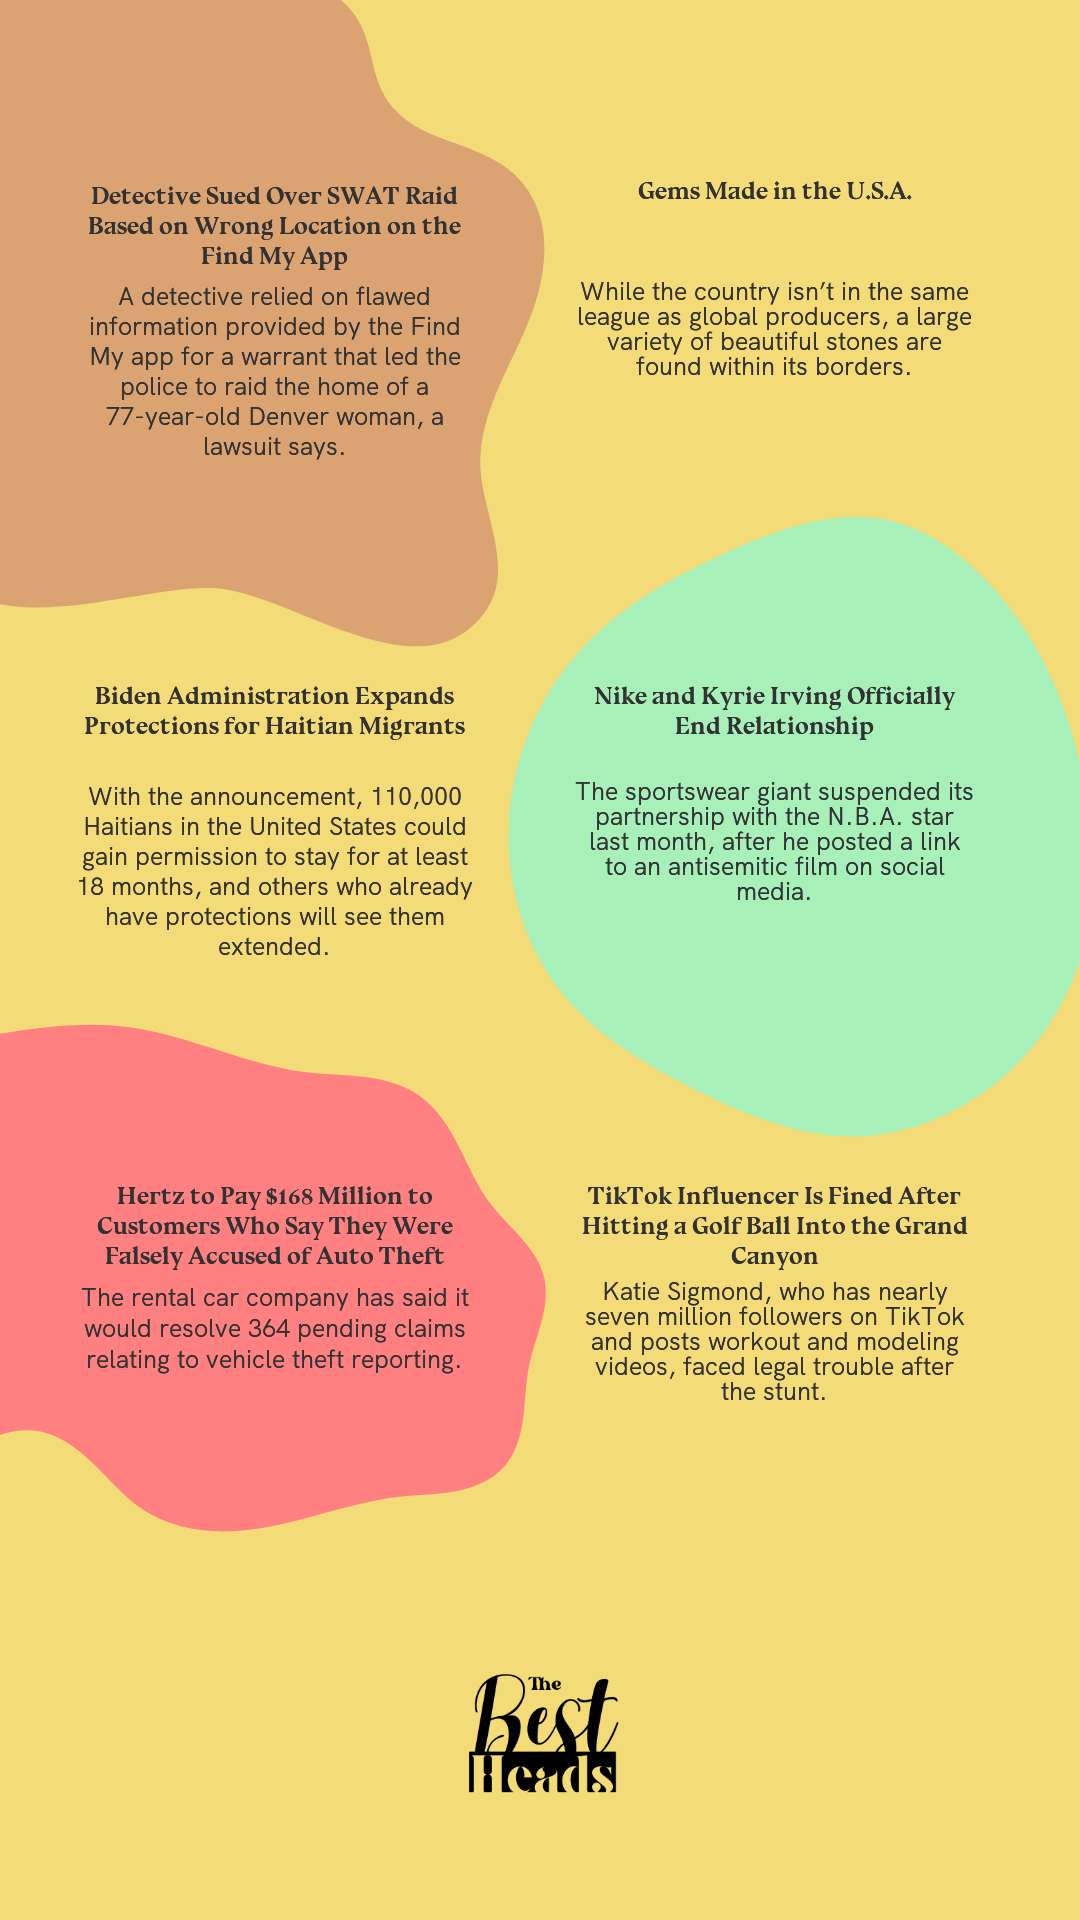
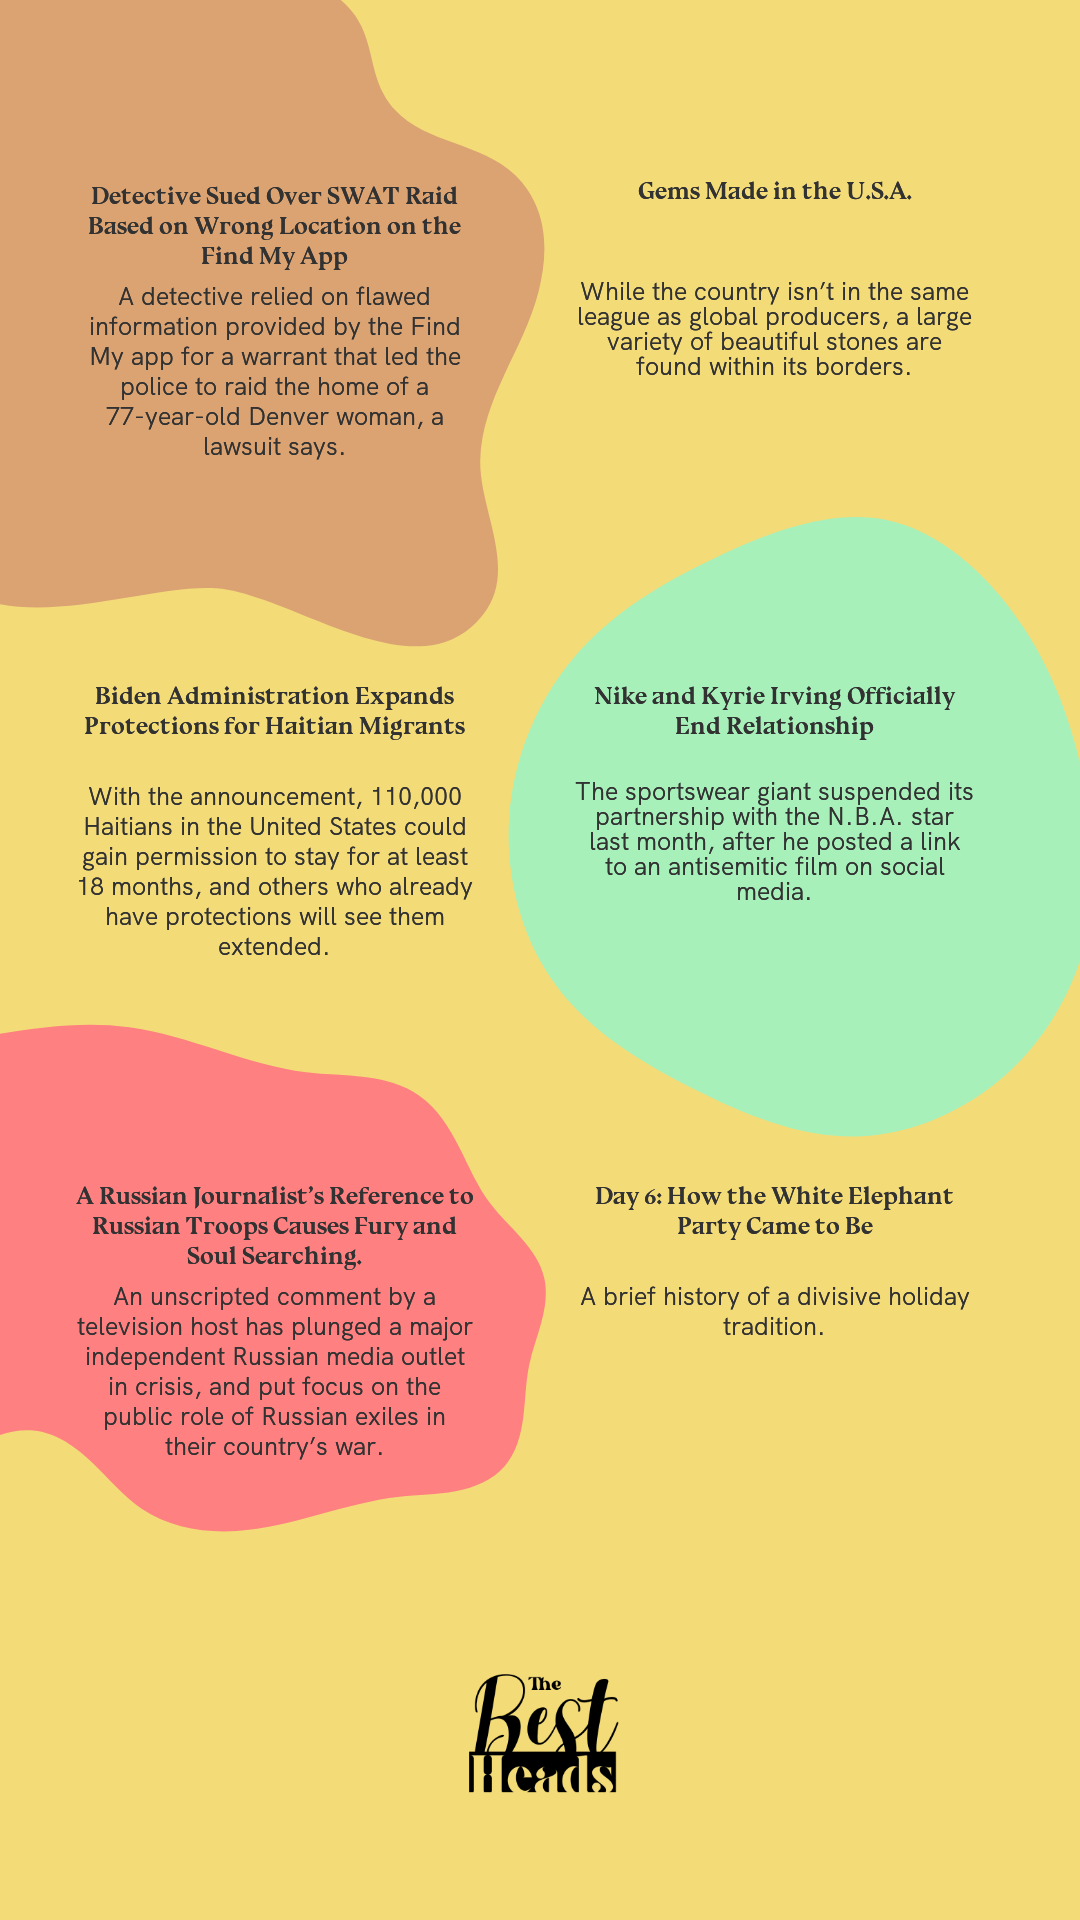
ok

Changed region(s): [[0.0611, 0.5938, 0.4278, 0.7812], [0.55, 0.5938, 0.8861, 0.7188]]

diff --git a/main.py b/main.py
@@ -2,14 +2,22 @@ from bs4 import BeautifulSoup
 import requests
 import time
 import tweepy
-import keys
 from PIL import Image, ImageDraw, ImageFont
 from image_utils import ImageText
-import urllib.request
+from dotenv import load_dotenv
+import os
+
+load_dotenv()
+
+API_KEY = os.getenv('API_KEY')
+API_SECRET = os.getenv('API_SECRET')
+BEARER_TOKEN = os.getenv('BEARER_TOKEN')
+ACCESS_TOKEN = os.getenv('ACCESS_TOKEN')
+ACCESS_TOKEN_SECRET = os.getenv('ACCESS_TOKEN_SECRET')
 
 def api():
-    auth = tweepy.OAuthHandler(keys.api_key, keys.api_secret)
-    auth.set_access_token(keys.access_token, keys.access_token_secret)
+    auth = tweepy.OAuthHandler(API_KEY, API_SECRET)
+    auth.set_access_token(ACCESS_TOKEN, ACCESS_TOKEN_SECRET)
 
     return tweepy.API(auth)
 
@@ -21,7 +29,7 @@ def tweet(api: tweepy.API, message: str, image_path=None):
 
     print('Tweeted successfully!')
 
-img = ImageText('img/yellow.png')
+img = ImageText('img/blob.png')
 
 def adding_text(img, text, position, size, colour):
     font = ImageFont.truetype("fonts/hkgrotesk.ttf", size, encoding="unic")
@@ -43,13 +51,8 @@ def scrape_news():
     soup_0 = BeautifulSoup(html_text_0, 'lxml')
     news_t_0 = soup_0.find('h2', class_='css-1kv6qi e15t083i0').text
     news_b_0 = soup_0.find('p', class_='css-1pga48a e15t083i1').text
-    news_i_0 = soup_0.find('img', class_='css-rq4mmj')
     news_post_0 = f'Booook NEWS: {news_t_0}\n{news_b_0}\n'
     print(news_post_0)
-    print(news_i_0['src'])
-    urllib.request.urlretrieve(news_i_0['src'], "img/0.png")
-    im0 = Image.open('img/0.png')
-    im0.thumbnail((200, 200))
     
     html_text_1 = requests.get(f'{url}{topic[1]}').text
     soup_1 = BeautifulSoup(html_text_1, 'lxml')
@@ -90,7 +93,6 @@ def scrape_news():
     #         img = adding_text(img, news_t, (10, 50), 50, (0, 0, 0,200))
     #         img = adding_text(img, news_b, (10, 150), 50, (0, 0, 0,200))
     #         img.save('img/whitetext.png')
-    img.write_text_box((350, 50), 'THE BEST HEADS', box_width=400, font_filename=cooperhewitt, font_size=35, color=color, place='center')
     img.write_text_box((75, 150), news_t_0, box_width=400, font_filename=bluunext, font_size=25, color=color, place='center')
     img.write_text_box((75, 250), news_b_0, box_width=400, font_filename=hkgrotesk, font_size=25, color=color, place='center')
     img.write_text_box((575, 150), news_t_1, box_width=400, font_filename=bluunext, font_size=25, color=color, place='center')
@@ -104,10 +106,6 @@ def scrape_news():
     img.write_text_box((575, 1150), news_t_5, box_width=400, font_filename=bluunext, font_size=25, color=color, place='center')
     img.write_text_box((575, 1250), news_b_5, box_width=400, font_filename=hkgrotesk, font_size=25, color=color, place='center')
     img.save('img/whitetext.png')
-    image = Image.open('img/whitetext.png')
-    back_im = image.copy()
-    back_im.paste(im0, (150, 450))
-    back_im.save('img/whitetext.png', quality=95)
     time.sleep(10)
     tweet(api, '', 'img/whitetext.png')
 
